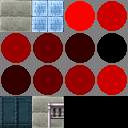
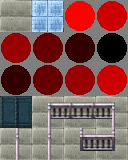
Added one way jumpable fences

diff --git a/src/entities.py b/src/entities.py
@@ -87,6 +87,10 @@ class PlayerState(IntEnum):
     WALK_LEFT   = 6
     WALK_DOWN   = 7
     WALK_RIGHT  = 8
+    # space for jump up
+    JUMP_LEFT   = 10
+    # space for jump down
+    JUMP_RIGHT  = 12
 
 class Player(Entity):
 
@@ -122,6 +126,8 @@ class Player(Entity):
             self.state = PlayerState.IDLE_RIGHT
             self.sprite.set_animation(([3, 2], [3, 2]), 1)
 
+
+        # TODO:  may need to change player move speed during state transition
         def walk_up(self):
             self.state = PlayerState.WALK_UP
             self.sprite.set_animation(([0, 3], [3, 3]), 15)
@@ -146,15 +152,25 @@ class Player(Entity):
             self.direction = Vector((1, 0))
             self.move(self.pos + self.direction)
 
+        def jump_left(self):
+            self.state = PlayerState.JUMP_LEFT
+            self.sprite.set_animation(([0, 11], [4, 11]), 15)
+
+        def jump_right(self):
+            self.state = PlayerState.JUMP_RIGHT
+            self.sprite.set_animation(([0, 12], [4, 12]), 15)
+
         states = {
-            1 : idle_up,
-            2 : idle_left,
-            3 : idle_down,
-            4 : idle_right,
-            5 : walk_up,
-            6 : walk_left,
-            7 : walk_down,
-            8 : walk_right
+            PlayerState.IDLE_UP    : idle_up,
+            PlayerState.IDLE_LEFT  : idle_left,
+            PlayerState.IDLE_DOWN  : idle_down,
+            PlayerState.IDLE_RIGHT : idle_right,
+            PlayerState.WALK_UP    : walk_up,
+            PlayerState.WALK_LEFT  : walk_left,
+            PlayerState.WALK_DOWN  : walk_down,
+            PlayerState.WALK_RIGHT : walk_right,
+            PlayerState.JUMP_LEFT  : jump_left,
+            PlayerState.JUMP_RIGHT : jump_right
         }
 
         states[state](self)
@@ -192,10 +208,45 @@ class Player(Entity):
         def tile_icy(self, current_tile, destination_tile):
             return True
 
+        # TODO: I still need to account for entities blocking the destination
+        def tile_left_fence(self, current_tile, destination_tile):
+            # check if the player is moving from right to left
+            if self.pos.x > self.destination.x:
+                # check if the destination location isn't blocked
+                jump_location = self.pos + Vector((-2, 0))
+                jump_destination = tileEngine.get_tile(jump_location)
+                if self.check_destination_tile(current_tile, jump_destination):
+                    # change player destination and state
+                    self.destination = jump_location
+                    self.change_state(PlayerState.JUMP_LEFT)
+                    return True
+                else:
+                    return False
+            else:
+                return False
+
+        def tile_right_fence(self, current_tile, destination_tile):
+            # check if the player is moving from right to left
+            if self.pos.x < self.destination.x:
+                # check if the destination location isn't blocked
+                jump_location = self.pos + Vector((2, 0))
+                jump_destination = tileEngine.get_tile(jump_location)
+                if self.check_destination_tile(current_tile, jump_destination):
+                    # change player destination and state
+                    self.destination = jump_location
+                    self.change_state(PlayerState.JUMP_RIGHT)
+                    return True
+                else:
+                    return False
+            else:
+                return False
+
         tile = {
-            TileType.EMPTY : tile_empty,
-            TileType.SOLID : tile_solid,
-            TileType.ICY   : tile_icy,
+            TileType.EMPTY       : tile_empty,
+            TileType.SOLID       : tile_solid,
+            TileType.ICY         : tile_icy,
+            TileType.LEFT_FENCE  : tile_left_fence,
+            TileType.RIGHT_FENCE : tile_right_fence
         }
 
         return tile[destination_tile.type](self, current_tile, destination_tile,)
@@ -224,7 +275,6 @@ class Player(Entity):
                 entity.direction = newpos - self.pos
                 can_move = entity.move(entity.pos + entity.direction)
 
-        # TODO: movement will likely require a more complex algorithm than this
         # if all checks are fine, move
         if can_move:
             self.moving = True
@@ -233,9 +283,11 @@ class Player(Entity):
             self.destination = None
 
     def go_idle(self):
-        # TODO: may need to account for states other than walk states
+        # TODO: may new to review this, but for now the model is sound
         if self.state >= 5 and self.state <= 8:
             self.change_state(self.state - 4)
+        if self.state >= 9 and self.state <= 12:
+            self.change_state(self.state - 8)
 
     def update_entitymap_pos(self):
         # move out of old location on entity map
@@ -264,10 +316,9 @@ class Player(Entity):
             elif handlers.keyboard.d:
                 self.change_state(PlayerState.WALK_RIGHT)
             else:
-                # if the player is not moving but in a walking state
-                # switch to an idle state which faces the same direction
-                if self.state >= 5 and self.state <= 8:
-                    self.go_idle()
+                # if the player is not moving switch to an idle state
+                # relative to the players current direction
+                self.go_idle()
         else:
             # keep moving towards the destination until is has been reached
             if self.pos != self.destination:

diff --git a/src/game.py b/src/game.py
@@ -59,7 +59,8 @@ class Game:
         for entity in Entity.entities:
             entity.draw(canvas)
 
-        canvas.draw_text(str(player.direction), (0, 16), 16, "White")
+        canvas.draw_text("player position: " + str(player.pos), (0, 16), 16, "White")
+        canvas.draw_text("player direction: " + str(player.direction), (0, 32), 16, "White")
 
         """
         canvas.draw_text(str(player.pos), (0, 16), 16, "White")
@@ -89,8 +90,8 @@ testsprite = simplegui._load_local_image('../assets/testsprite.png')
 testblock = simplegui._load_local_image('../assets/testblock.png')
 horse = simplegui._load_local_image('../assets/SS_Horse_1.1.png')
 
-index = (1, 1, 10, 1)
-types = (0, 2, 0 , 1)
+index = (1, 1, 10, 1, 1, 1, 1, 1, 1, 1, 1)
+types = (0, 2, 0 , 1, 1, 1, 1, 3, 4, 1, 1)
 
 tilesheet = Tilesheet(testsheet, index, types)
 tilesheet.tiles[2].set_animation_speed(8)
@@ -122,11 +123,11 @@ t_map = [
     [3, 0, 0, 0, 0, 0, 0, 0, 0, 0, 0, 0, 0, 0, 0, 0, 0, 0, 0, 0, 0, 0, 0, 0, 0, 0, 0, 0, 0, 3],
     [3, 3, 3, 3, 3, 3, 3, 3, 3, 3, 3, 3, 3, 3, 3, 0, 0, 0, 0, 3, 3, 3, 3, 3, 3, 3, 3, 3, 3, 3],
     [3, 0, 0, 0, 0, 0, 0, 0, 0, 0, 0, 0, 0, 0, 0, 0, 0, 0, 0, 0, 0, 0, 0, 0, 0, 0, 0, 0, 0, 3],
-    [3, 0, 0, 0, 0, 0, 0, 0, 0, 0, 0, 0, 0, 1, 1, 1, 1, 1, 1, 1, 1, 1, 0, 0, 0, 0, 0, 0, 0, 3],
-    [3, 0, 0, 0, 0, 0, 0, 0, 0, 0, 0, 0, 0, 1, 0, 0, 0, 0, 0, 0, 0, 1, 0, 0, 0, 0, 0, 0, 0, 3],
-    [3, 0, 0, 0, 0, 0, 0, 0, 0, 0, 0, 0, 0, 1, 0, 0, 0, 0, 0, 0, 0, 1, 0, 0, 0, 0, 0, 0, 0, 3],
-    [3, 0, 0, 0, 0, 0, 0, 0, 0, 0, 0, 0, 0, 1, 0, 0, 0, 2, 0, 0, 0, 1, 0, 0, 0, 0, 0, 0, 0, 3],
-    [3, 0, 0, 0, 0, 0, 0, 0, 0, 0, 0, 0, 0, 1, 0, 0, 2, 2, 2, 0, 0, 1, 0, 0, 0, 0, 0, 0, 0, 3],
+    [3, 0, 0, 4, 5, 5, 5, 6, 0, 0, 0, 0, 0, 1, 1, 1, 1, 1, 1, 1, 1, 1, 0, 0, 0, 0, 0, 0, 0, 3],
+    [3, 0, 0, 7, 0, 0, 0, 8, 0, 0, 0, 0, 0, 1, 0, 0, 0, 0, 0, 0, 0, 1, 0, 0, 0, 0, 0, 0, 0, 3],
+    [3, 0, 0, 7, 0, 0, 0, 8, 0, 0, 0, 0, 0, 1, 0, 0, 0, 0, 0, 0, 0, 1, 0, 0, 0, 0, 0, 0, 0, 3],
+    [3, 0, 0, 7, 0, 0, 0, 8, 0, 0, 0, 0, 0, 1, 0, 0, 0, 2, 0, 0, 0, 1, 0, 0, 0, 0, 0, 0, 0, 3],
+    [3, 0, 0, 9, 5, 0, 5, 10, 0, 0, 0, 0, 0, 1, 0, 0, 2, 2, 2, 0, 0, 1, 0, 0, 0, 0, 0, 0, 0, 3],
     [3, 0, 0, 0, 0, 0, 0, 0, 0, 0, 0, 0, 0, 1, 0, 0, 0, 2, 0, 0, 0, 1, 0, 0, 0, 0, 0, 0, 0, 3],
     [3, 0, 0, 0, 0, 0, 0, 0, 0, 0, 0, 0, 0, 1, 0, 0, 0, 0, 0, 0, 0, 1, 0, 0, 0, 0, 0, 0, 0, 3],
     [3, 0, 0, 0, 0, 0, 0, 0, 0, 0, 0, 0, 0, 1, 0, 0, 0, 0, 0, 0, 0, 1, 0, 0, 0, 0, 0, 0, 0, 3],
@@ -146,7 +147,7 @@ entitymap = [
     ] for y in range(len(t_map))
 ]
 
-player = Player(Vector((1, 1)), horse)
+player = Player(Vector((5, 14)), horse)
 _game.camera.set_anchor(player)
 player.change_state(PlayerState.IDLE_RIGHT)
 

diff --git a/src/tileEngine.py b/src/tileEngine.py
@@ -7,9 +7,11 @@ TILE_DIMS = (TILESIZE, TILESIZE)
 
 class TileType(IntEnum):
 
-    EMPTY = 0
-    SOLID = 1
-    ICY   = 2
+    EMPTY       = 0 # any regular tile which can be stepped on
+    SOLID       = 1 # any regular tile which acts as a wall
+    ICY         = 2 # tiles which make the player slide
+    LEFT_FENCE  = 3 # tiles which can be jumped over from the right
+    RIGHT_FENCE = 4 # tile which can be jumped over from the left
 
 class Tile:
 

diff --git a/src/handlers.py b/src/handlers.py
@@ -14,8 +14,6 @@ class Keyboard:
 
     def keydown(self, key):
 
-        #TODO: PLAYER MOVEMENT IS CURRENTLY HACKED IN
-
         if key == simplegui.KEY_MAP['w']:
             self.w = True
         if key == simplegui.KEY_MAP['a']:
